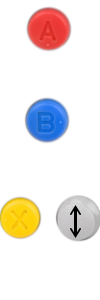
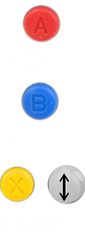
VMU Manager now can recognize Vibration Pack and Microphone devices Updated VMU Manager UI

diff --git a/applications/vmu_manager/modules/module.c b/applications/vmu_manager/modules/module.c
@@ -68,6 +68,10 @@ static struct {
 	GUI_Surface *keyboard;
 	GUI_Surface *mouse;
 	GUI_Surface *dreameye;
+	GUI_Surface *mic;
+	GUI_Surface *dreameyemic;
+	GUI_Surface *vibro_pack;
+	GUI_Surface *vmu_d;
 
 	GUI_Widget *vmu_page;
 	GUI_Widget *vmu_container;
@@ -306,6 +310,7 @@ static void show_slots(int port)
 		dev = maple_enum_dev(port, slot);
 
 		if (dev == NULL) {
+			GUI_ButtonSetDisabledImage(self.vmu[port][slot - 1], self.vmu_d);
 			GUI_WidgetSetEnabled(self.vmu[port][slot - 1], 0);
 		}
 		else if(dev->info.functions & MAPLE_FUNC_CAMERA) {
@@ -314,7 +319,19 @@ static void show_slots(int port)
 			GUI_WidgetSetEnabled(self.vmu[port][slot - 1], 0);
 		}
 		else if(dev->info.functions & MAPLE_FUNC_MEMCARD) {
+			GUI_ButtonSetDisabledImage(self.vmu[port][slot - 1], self.vmu_d);
 			GUI_WidgetSetEnabled(self.vmu[port][slot - 1], 1);
+		}
+		//replace inactive memory card slot with microphone if installed
+		else if(dev->info.functions & MAPLE_FUNC_MICROPHONE) {
+			//check if this is Dreameye microphone or not
+			GUI_ButtonSetDisabledImage(self.vmu[port][slot - 1], !strncmp(dev->info.product_name, "MicDevice for Dreameye", 22) ? self.dreameyemic : self.mic);
+			GUI_WidgetSetEnabled(self.vmu[port][slot - 1], 0);
+		}
+		//replace inactive memory card slot with vibration pack if installed
+		else if(dev->info.functions & MAPLE_FUNC_PURUPURU) {
+			GUI_ButtonSetDisabledImage(self.vmu[port][slot - 1], self.vibro_pack);
+			GUI_WidgetSetEnabled(self.vmu[port][slot - 1], 0);
 		}
 	}
 }
@@ -343,6 +360,9 @@ static void show_port(int port, uint32_t functions)
 		GUI_ProgressBarSetPosition(self.img_cont[port], 0.0);	
 		GUI_WidgetSetEnabled(self.vmu[port][0], 0);
 		GUI_WidgetSetEnabled(self.vmu[port][1], 0);
+		//return normal inactive slots when controller disconnect
+		GUI_ButtonSetDisabledImage(self.vmu[port][0], self.vmu_d);
+		GUI_ButtonSetDisabledImage(self.vmu[port][1], self.vmu_d);
 	}
 }
 
@@ -440,6 +460,10 @@ void Vmu_Manager_Init(App_t* app)
 	self.keyboard = (GUI_Surface *) GetElement("keyboard", LIST_ITEM_GUI_SURFACE, 0);
 	self.mouse = (GUI_Surface *) GetElement("mouse", LIST_ITEM_GUI_SURFACE, 0);
 	self.dreameye = (GUI_Surface *) GetElement("dreameye", LIST_ITEM_GUI_SURFACE, 0);
+	self.mic = (GUI_Surface *) GetElement("mic", LIST_ITEM_GUI_SURFACE, 0);
+	self.dreameyemic = (GUI_Surface *) GetElement("dreameyemic", LIST_ITEM_GUI_SURFACE, 0);
+	self.vibro_pack = (GUI_Surface *) GetElement("vibro_pack", LIST_ITEM_GUI_SURFACE, 0);
+    self.vmu_d = (GUI_Surface *) GetElement("vmu_d", LIST_ITEM_GUI_SURFACE, 0);
 
 	self.progres_img = (GUI_Surface *) GetElement("progressbar", LIST_ITEM_GUI_SURFACE, 0);
 	self.progres_img_b = (GUI_Surface *) GetElement("progressbar_back", LIST_ITEM_GUI_SURFACE, 0);
